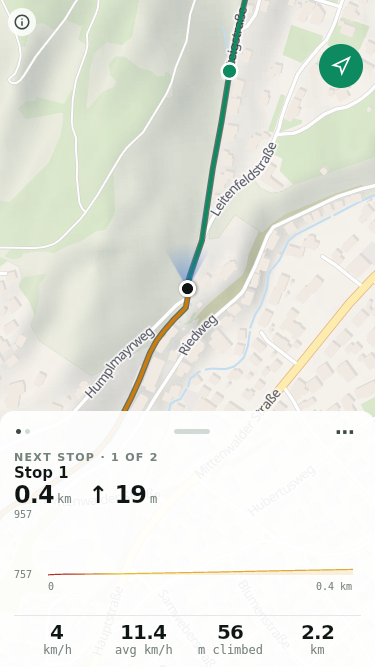
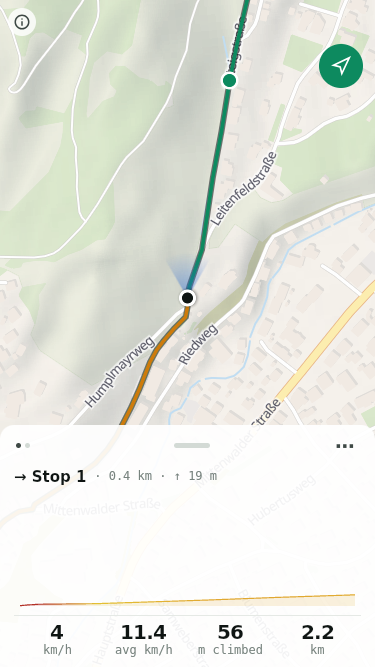
ui: the riding sheet open is the same page, with the profile given the room

diff --git a/app/ui/src/commonMain/kotlin/net/stho/tracks/ui/riding/RidingScreen.kt b/app/ui/src/commonMain/kotlin/net/stho/tracks/ui/riding/RidingScreen.kt
@@ -78,11 +78,11 @@ const val RIDING_ZOOM = 15.0
 /** A page collapsed, fixed: a line and a strip. A page change must not change what the map is inset by. */
 private val COLLAPSED_PAGE = 54.dp
 
-/** A page open, fixed: its label, its stop, its numbers and its profile. */
-private val OPEN_PAGE = 160.dp
+/** A page open, fixed: the same line, over a profile with room to read the climbs. */
+private val OPEN_PAGE = 146.dp
 
 private val STRIP_HEIGHT = 30.dp
-private val PROFILE_HEIGHT = 72.dp
+private val OPEN_PROFILE_HEIGHT = 122.dp
 
 /** A drag on the sheet further than this, or a fling, opens or collapses it. */
 private val SNAP_DRAG = 24.dp
@@ -106,8 +106,8 @@ data class RideStats(val paused: Boolean, val distanceM: Double, val climbedM: D
  *   distance.
  * - **⋯** holds Pause (or Resume), Edit plan and Stop. While paused, a chip over the map says so, and resumes.
  *
- * The sheet is collapsed — a page is a line and a strip — or [expanded], its numbers big and its profile tall; a drag or
- * a tap on its top switches, and [onExpanded] is told.
+ * The sheet is collapsed — a page is a line and a strip — or [expanded], the same line over a profile with more height to
+ * it; a drag or a tap on its top switches, and [onExpanded] is told.
  *
  * A total across a leg that is not routed counts what is routed and says so with a `+`; the leg itself is its dash on
  * the map and a gap in the profile. There is no cue for being off the route: the map shows it.
@@ -303,22 +303,20 @@ private fun StopPage(navigation: Navigation, page: Int, expanded: Boolean) {
 
     if (progress == null) {
         val whole = remember(route) { route.terrain() }
-        PageText("WAITING FOR GPS…", names.getOrElse(1) { names.lastOrNull() ?: "" }, null, expanded)
+        PageLine("WAITING FOR GPS…", names.getOrElse(1) { names.lastOrNull() ?: "" }, null)
         whole?.let { Profile(it, expanded, youM = null, marksM = emptyList()) }
         return
     }
     if (first == null) {
-        PageText("FINISH", "⚑ ${names.lastOrNull() ?: ""}", "you are there", expanded)
+        PageLine(null, "⚑ ${names.lastOrNull() ?: ""}", "finish · you are there")
         return
     }
 
     val ordinal = first + page
     val reading = progress.ahead.getOrNull(page) ?: return
-    val finish = ordinal == route.stops.size - 1
     val name = names.getOrElse(ordinal) { "" }
-    val label = "${if (finish) "FINISH" else if (page == 0) "NEXT STOP" else "THEN"} · ${page + 1} OF ${progress.ahead.size}"
     val line = when {
-        finish -> "⚑ $name"
+        ordinal == route.stops.size - 1 -> "⚑ $name"
         page == 0 -> "→ $name"
         else -> "then $name"
     }
@@ -326,26 +324,14 @@ private fun StopPage(navigation: Navigation, page: Int, expanded: Boolean) {
     val stretch = remember(route, progress.alongM, ordinal) { route.terrainBetween(progress.alongM, route.stops[ordinal]) }
     val marks = remember(route, progress.alongM, ordinal) { (first until ordinal).map { route.stops[it] - progress.alongM } }
 
-    if (expanded) {
-        BasicText(label, style = Type.label)
-        BasicText(name, style = Type.body, maxLines = 1, overflow = TextOverflow.Ellipsis)
-        Numbers(reading)
-    } else {
-        PageText(null, line, reading(reading), expanded = false)
-    }
+    PageLine(null, line, reading(reading))
     // You are where the stretch starts, always: no dot for it.
     stretch?.let { Profile(it, expanded, youM = null, marksM = marks) }
 }
 
-/** A page with nothing to swipe to: a label, a name and a note, on one line collapsed. */
+/** A page's one line: a label, a name and a note. */
 @Composable
-private fun PageText(label: String?, name: String, note: String?, expanded: Boolean) {
-    val said = listOfNotNull(name.ifEmpty { null }, note).joinToString(" · ")
-    if (expanded) {
-        label?.let { BasicText(it, style = Type.label) }
-        if (said.isNotEmpty()) BasicText(said, style = Type.body, maxLines = 1, overflow = TextOverflow.Ellipsis)
-        return
-    }
+private fun PageLine(label: String?, name: String, note: String?) {
     Row(Modifier.fillMaxWidth().height(22.dp), verticalAlignment = Alignment.CenterVertically) {
         label?.let { BasicText(if (name.isEmpty()) it else "$it · ", style = Type.label, maxLines = 1) }
         BasicText(name, style = Type.body, maxLines = 1, overflow = TextOverflow.Ellipsis, modifier = Modifier.weight(1f, fill = false))
@@ -353,42 +339,21 @@ private fun PageText(label: String?, name: String, note: String?, expanded: Bool
     }
 }
 
+/** The profile under a page's line: a strip collapsed, and the same drawing with room to read the climbs open. */
 @Composable
 private fun Profile(terrain: Terrain, expanded: Boolean, youM: Double?, marksM: List<Double>) {
-    if (expanded) {
-        ElevationProfile(terrain, height = PROFILE_HEIGHT, youM = youM, marksM = marksM)
-    } else {
-        ElevationProfile(terrain, height = STRIP_HEIGHT, youM = youM, marksM = marksM, axes = false)
-    }
+    ElevationProfile(terrain, height = if (expanded) OPEN_PROFILE_HEIGHT else STRIP_HEIGHT, youM = youM, marksM = marksM, axes = false)
 }
 
 /** A ride with no plan: the profile of what has been ridden, you at its end. */
 @Composable
 private fun RideSoFar(elevation: Terrain?, expanded: Boolean) {
+    PageLine("RIDE SO FAR", "", null)
     if (elevation == null) {
-        PageText("RIDE SO FAR", "", null, expanded)
         BasicText("The profile starts once there is a climb or a descent to draw.", style = Type.note, maxLines = 2)
         return
     }
-    if (expanded) BasicText("RIDE SO FAR", style = Type.label) else PageText("RIDE SO FAR", "", null, expanded = false)
     Profile(elevation, expanded, youM = elevation.totalM, marksM = emptyList())
-}
-
-@Composable
-private fun Numbers(reading: Reading?) {
-    Row(horizontalArrangement = Arrangement.spacedBy(16.dp), verticalAlignment = Alignment.Bottom) {
-        val plus = if (reading?.incomplete == true) "+" else ""
-        Number(reading?.let { Format.km(it.distanceM) + plus } ?: "—", "km")
-        Number(reading?.let { "↑ " + Format.metres(it.ascentM) + plus } ?: "—", "m")
-    }
-}
-
-@Composable
-private fun Number(value: String, unit: String) {
-    Row(verticalAlignment = Alignment.Bottom, horizontalArrangement = Arrangement.spacedBy(3.dp)) {
-        BasicText(value, style = Type.number)
-        BasicText(unit, style = Type.unit, modifier = Modifier.padding(bottom = 3.dp))
-    }
 }
 
 /** Speed, average speed, metres climbed and distance: the ride so far, whichever page is up. */
